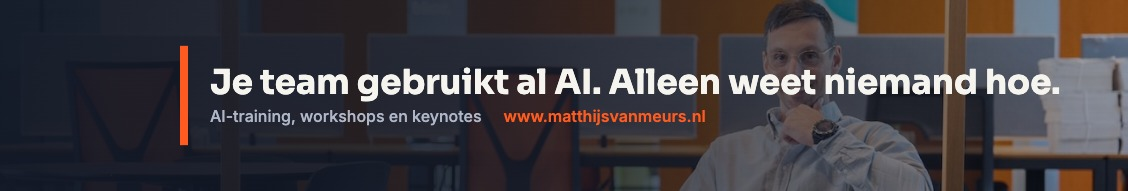
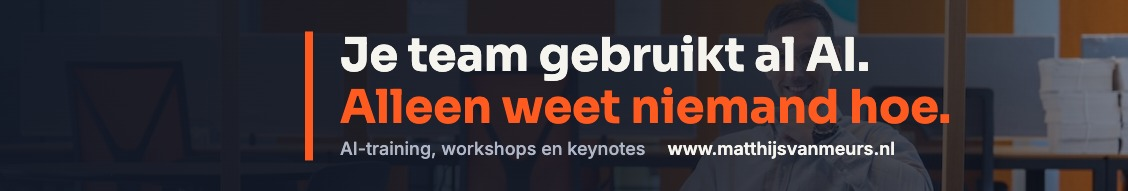
LinkedIn: vrije zone links vergroot naar 27 procent
De profielfoto en het logo van LinkedIn dekten de eerste woorden af. De tekst
begint nu verder naar rechts en past op twee regels, waardoor hij ook groter kan.
De donkere sluier op de fotoversies is sterker zodat oranje tekst leesbaar blijft.
Twee voorbeeldbestanden tonen hoe het op LinkedIn uitpakt.

diff --git a/bronbestanden/build/linkedin-generator.html b/bronbestanden/build/linkedin-generator.html
@@ -132,92 +132,125 @@ function logoMonogram() {
 }
 
 /* ---------------- BANNER ---------------- */
-// stijl: 'huisstijl' of 'foto'
+// LinkedIn legt de profielfoto (persoonlijk) of het logo (bedrijfspagina) over de
+// linkeronderhoek van de omslag. De linker 27% blijft daarom volledig vrij van tekst.
+const VEILIG = 0.27;
+
 async function banner(W, H, stijl) {
   const c = newCanvas(W, H), ctx = c.getContext('2d');
-  const smal = H < 260;                       // 1128x191 is smal
-  const textX = smal ? 210 : 300;             // ruimte vrijhouden voor het profielrondje
-  const rechts = W - (smal ? 48 : 72);
+  const smal   = H < 260;
+  const veilig = Math.round(W * VEILIG);
+  const barW   = Math.max(7, Math.round(W / 150));
+  const gap    = Math.round(W * 0.024);
+  const textX  = veilig + barW + gap;
+  const rechts = W - Math.round(W * 0.045);
   const availW = rechts - textX;
+  const availH = H - Math.round(H * 0.14) * 2;
 
+  // ---- achtergrond ----
   if (stijl === 'foto') {
     const img = await loadImage('/assets/img/matthijs-van-meurs-kantoor.jpg');
     drawCover(ctx, img, 0, 0, W, H, 0.10);
-    // donkere sluier zodat de tekst leesbaar blijft
     const g = ctx.createLinearGradient(0, 0, W, 0);
-    g.addColorStop(0.00, 'rgba(18,24,38,0.96)');
-    g.addColorStop(0.45, 'rgba(18,24,38,0.86)');
-    g.addColorStop(1.00, 'rgba(18,24,38,0.35)');
+    g.addColorStop(0.00, 'rgba(18,24,38,0.97)');
+    g.addColorStop(0.55, 'rgba(18,24,38,0.90)');
+    g.addColorStop(0.82, 'rgba(18,24,38,0.74)');
+    g.addColorStop(1.00, 'rgba(18,24,38,0.46)');
     ctx.fillStyle = g; ctx.fillRect(0, 0, W, H);
   } else {
     ctx.fillStyle = INK; ctx.fillRect(0, 0, W, H);
-    // subtiel donkerblauw vlak rechts voor diepte
-    const g = ctx.createLinearGradient(W * 0.45, 0, W, H);
+    const g = ctx.createLinearGradient(W * 0.40, 0, W, H);
     g.addColorStop(0, 'rgba(30,42,68,0)');
     g.addColorStop(1, 'rgba(30,42,68,1)');
     ctx.fillStyle = g; ctx.fillRect(0, 0, W, H);
   }
 
-  // oranje accentbalk links van de tekst
-  const barW = smal ? 8 : 10;
-  const barH = smal ? H * 0.52 : H * 0.46;
-  ctx.fillStyle = ORANGE;
-  ctx.fillRect(textX - (smal ? 30 : 44), (H - barH) / 2, barW, barH);
+  // ---- lettergrootte bepalen op breedte en hoogte ----
+  const r1 = 'Je team gebruikt al AI.';
+  const r2 = 'Alleen weet niemand hoe.';
+  const sub = 'AI-training, workshops en keynotes';
+  const url = 'www.matthijsvanmeurs.nl';
+
+  let size = Math.min(
+    fitSize(ctx, r1, SORA(700), availW),
+    fitSize(ctx, r2, SORA(700), availW)
+  );
+  const lhF = 1.12, subF = 0.40;
+  const hoogteBij = x => lhF * x + x + Math.max(10, x * 0.30) + subF * x;
+  while (size > 10 && hoogteBij(size) > availH) size -= 1;
+  size = Math.min(size, smal ? 46 : 64);
+
+  const lh      = size * lhF;
+  const subSize = Math.max(12, Math.round(size * subF));
+  const tussen  = Math.max(10, Math.round(size * 0.30));
 
   ctx.textAlign = 'left';
   ctx.textBaseline = 'alphabetic';
+  ctx.font = font(SORA(700), size);
+  const asc = ctx.measureText(r1).actualBoundingBoxAscent;
 
-  if (smal) {
-    // één grote regel plus een subregel
-    const kop = 'Je team gebruikt al AI. Alleen weet niemand hoe.';
-    const kopSize = Math.min(fitSize(ctx, kop, SORA(700), availW), 34);
-    const subSize = Math.max(13, Math.round(kopSize * 0.46));
-    const totaal = kopSize + 12 + subSize;
-    let y = (H - totaal) / 2 + kopSize * 0.86;
+  const blokH = asc + lh + tussen + subSize;
+  let y = (H - blokH) / 2 + asc;
 
-    ctx.font = font(SORA(700), kopSize);
-    ctx.fillStyle = PAPER;
-    ctx.fillText(kop, textX, y);
+  // ---- oranje accentbalk, precies op de grens van de vrije zone ----
+  ctx.fillStyle = ORANGE;
+  ctx.fillRect(veilig, (H - blokH) / 2 - size * 0.10, barW, blokH + size * 0.22);
 
-    y += 12 + subSize;
-    ctx.font = font(INTER(500), subSize);
-    ctx.fillStyle = MUTED;
-    ctx.fillText('AI-training, workshops en keynotes', textX, y);
+  // ---- tekst ----
+  ctx.fillStyle = PAPER;
+  ctx.fillText(r1, textX, y);
+  ctx.fillStyle = ORANGE;
+  ctx.fillText(r2, textX, y + lh);
 
-    ctx.fillStyle = ORANGE;
-    const wsub = ctx.measureText('AI-training, workshops en keynotes').width;
-    ctx.font = font(INTER(600), subSize);
-    ctx.fillText('www.matthijsvanmeurs.nl', textX + wsub + 22, y);
+  y = y + lh + tussen + subSize;
+  ctx.font = font(INTER(500), subSize);
+  ctx.fillStyle = MUTED;
+  ctx.fillText(sub, textX, y);
+  const wsub = ctx.measureText(sub).width;
+  ctx.font = font(INTER(600), subSize);
+  ctx.fillStyle = PAPER;
+  ctx.fillText(url, textX + wsub + Math.round(subSize * 1.2), y);
+
+  return c;
+}
+
+/* ---------------- VOORBEELD: banner met profielfoto eroverheen ---------------- */
+// Alleen om te controleren, niet om te uploaden.
+async function mockup(bannerCanvas, soort) {
+  const CW = 1128;                                   // breedte van de LinkedIn-kaart
+  const bh = Math.round(bannerCanvas.height * (CW / bannerCanvas.width));
+  const onder = soort === 'profiel' ? 150 : 210;
+  const c = newCanvas(CW, bh + onder), ctx = c.getContext('2d');
+
+  ctx.fillStyle = '#FFFFFF'; ctx.fillRect(0, 0, CW, bh + onder);
+  ctx.drawImage(bannerCanvas, 0, 0, CW, bh);
+
+  if (soort === 'profiel') {
+    // ronde profielfoto, linksonder, half over de banner heen
+    const d = 152, cx = 24 + d / 2, cy = bh;
+    const foto = await loadImage('/assets/img/matthijs-van-meurs-portret.jpg');
+    ctx.save();
+    ctx.beginPath(); ctx.arc(cx, cy, d / 2 + 5, 0, Math.PI * 2);
+    ctx.fillStyle = '#FFFFFF'; ctx.fill();
+    ctx.beginPath(); ctx.arc(cx, cy, d / 2, 0, Math.PI * 2); ctx.clip();
+    const s = Math.max(d / foto.width, d / foto.height);
+    ctx.drawImage(foto, cx - foto.width * s / 2, cy - d / 2 - 10, foto.width * s, foto.height * s);
+    ctx.restore();
+    ctx.fillStyle = INK; ctx.font = font(SORA(700), 26);
+    ctx.fillText('Matthijs van Meurs', 24, bh + 108);
   } else {
-    // twee grote regels plus een subregel
-    const r1 = 'Je team gebruikt al AI.';
-    const r2 = 'Alleen weet niemand hoe.';
-    const kopSize = Math.min(
-      fitSize(ctx, r1, SORA(700), availW),
-      fitSize(ctx, r2, SORA(700), availW),
-      62
-    );
-    const lh = kopSize * 1.14;
-    const subSize = Math.round(kopSize * 0.34);
-    const totaal = lh * 2 + 26 + subSize;
-    let y = (H - totaal) / 2 + kopSize * 0.84;
-
-    ctx.font = font(SORA(700), kopSize);
-    ctx.fillStyle = PAPER;
-    ctx.fillText(r1, textX, y);
-    ctx.fillStyle = ORANGE;
-    ctx.fillText(r2, textX, y + lh);
-
-    y = y + lh + 26 + subSize;
-    ctx.font = font(INTER(500), subSize);
-    ctx.fillStyle = MUTED;
-    const sub = 'AI-training, workshops en keynotes';
-    ctx.fillText(sub, textX, y);
-    const wsub = ctx.measureText(sub).width;
-    ctx.font = font(INTER(600), subSize);
-    ctx.fillStyle = PAPER;
-    ctx.fillText('www.matthijsvanmeurs.nl', textX + wsub + 26, y);
+    // vierkant logo, linksonder, half over de banner heen
+    const d = 160, x = 24, yy = bh - d / 2;
+    const logo = logoNaam();
+    ctx.fillStyle = '#FFFFFF';
+    ctx.fillRect(x - 6, yy - 6, d + 12, d + 12);
+    ctx.drawImage(logo, x, yy, d, d);
+    ctx.fillStyle = INK; ctx.font = font(SORA(700), 26);
+    ctx.fillText('Matthijs van Meurs', x, yy + d + 34);
   }
+
+  ctx.fillStyle = '#9aa3b2'; ctx.font = font(INTER(500), 15);
+  ctx.fillText('voorbeeld van de weergave op LinkedIn, niet uploaden', 24, c.height - 16);
   return c;
 }
 
@@ -248,6 +281,11 @@ window.maakAlles = async function () {
 
   const c4 = await banner(1584, 396, 'foto');      show(c4, 'profiel foto');
   log.push(await opslaan(c4, 'banner-profiel-1584x396-foto.jpg', 'image/jpeg', 0.92));
+
+  const m1 = await mockup(c3, 'profiel');        show(m1, 'voorbeeld profiel');
+  log.push(await opslaan(m1, 'voorbeeld-profiel.png'));
+  const m2 = await mockup(c1, 'bedrijf');        show(m2, 'voorbeeld bedrijfspagina');
+  log.push(await opslaan(m2, 'voorbeeld-bedrijfspagina.png'));
 
   return log;
 };

diff --git a/linkedin/LEESMIJ.md b/linkedin/LEESMIJ.md
@@ -17,8 +17,16 @@ LinkedIn vraagt minimaal 300x300. Beide bestanden zijn 400x400 en vierkant.
 - `banner-profiel-1584x396-huisstijl.png`
 - `banner-profiel-1584x396-foto.jpg`
 
-De tekst begint bewust naar rechts. LinkedIn legt je profielfoto of logo over de
-linkeronderhoek van de omslag heen; die hoek is daarom leeg gelaten.
+## Vrije zone links
+LinkedIn legt je profielfoto (persoonlijk) of je logo (bedrijfspagina) over de
+linkerkant van de omslag heen. De linker 27 procent is daarom volledig vrij van
+tekst gehouden. De oranje balk markeert precies waar die zone ophoudt.
+
+Controleer het zelf met de twee voorbeelden:
+- `voorbeeld-profiel.png`
+- `voorbeeld-bedrijfspagina.png`
+
+Die twee zijn alleen bedoeld om te kijken. Niet uploaden.
 
 ## Opnieuw maken of aanpassen
 De beelden worden getekend door de browser, omdat de lettertypen niet lokaal
